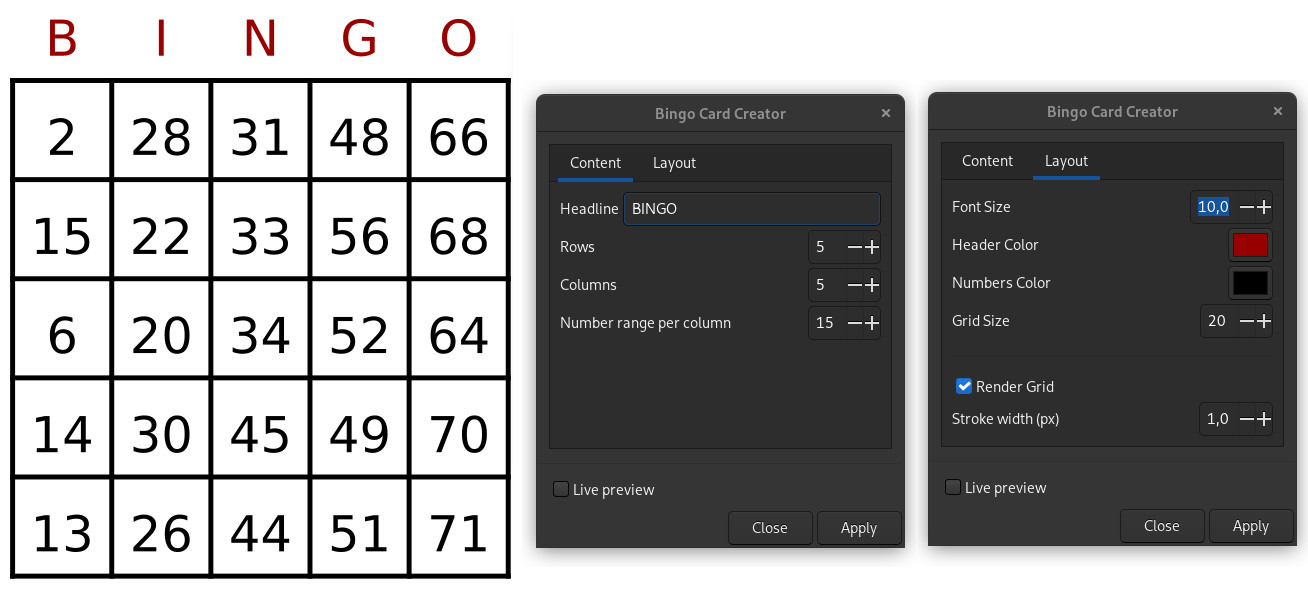
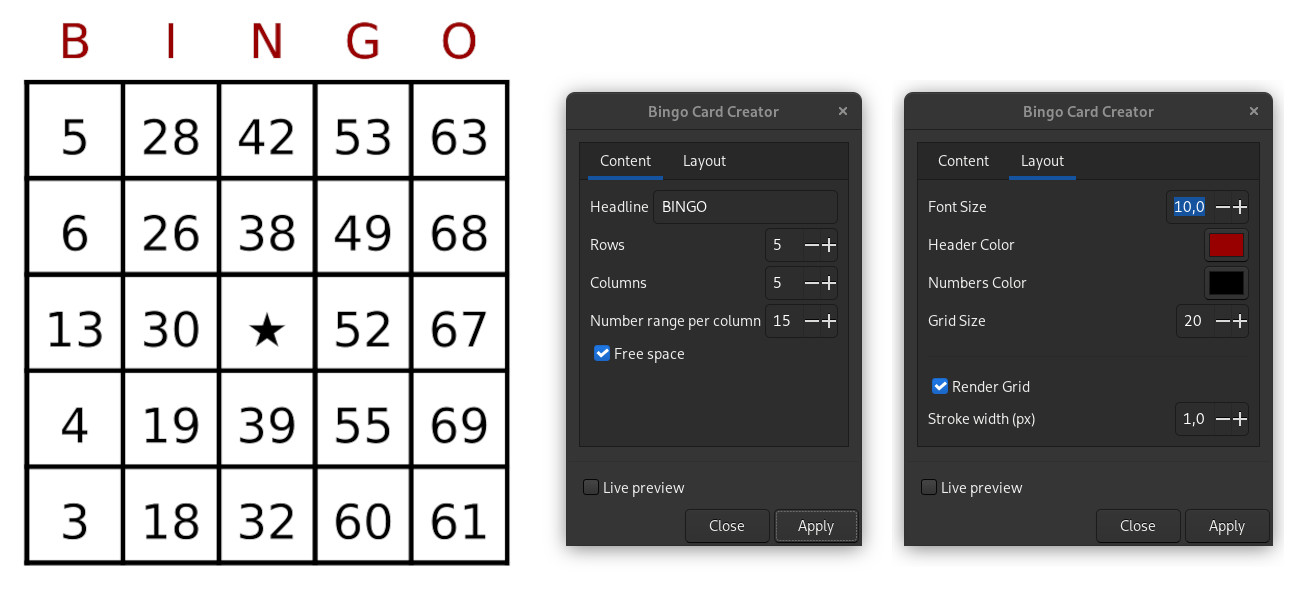
add free space option

diff --git a/bingo/bingo.py b/bingo/bingo.py
@@ -22,8 +22,10 @@
 This extension generates bingo cards
 """
 
-import inkex
+from math import ceil
 from random import shuffle
+
+import inkex
 
 
 class BingoCardCreator(inkex.GenerateExtension):
@@ -36,6 +38,7 @@ class BingoCardCreator(inkex.GenerateExtension):
         pars.add_argument("--columns", type=int, default=5, dest="columns")
         pars.add_argument("--row_range", type=int, default=15, dest="row_range")
         pars.add_argument("--card_header", type=str, default="", dest="card_header")
+        pars.add_argument("--free", type=inkex.Boolean, default=True, dest="free")
 
         pars.add_argument("--grid_size", type=int, default=20, dest="grid_size")
         pars.add_argument("--font_size", type=float, default=10, dest="font_size")
@@ -46,6 +49,7 @@ class BingoCardCreator(inkex.GenerateExtension):
 
     def generate(self):
         self.card_header = self.options.card_header
+        self.free = self.options.free
         self.columns = self.options.columns
         self.row_range = self.options.row_range
         self.rows = self.options.rows
@@ -78,8 +82,13 @@ class BingoCardCreator(inkex.GenerateExtension):
             num_range = list(range(num_start, num_end))
             shuffle(num_range)
             num_range = num_range[:self.rows]
+
+            if self.free and i == ceil(self.rows / 2) - 1:
+                num_range[ceil(self.rows / 2) - 1] = "★"
+
             if self.columns == len(self.card_header):
                 num_range.insert(0, self.card_header[i])
+
             numbers.append(num_range)
         return numbers
 
